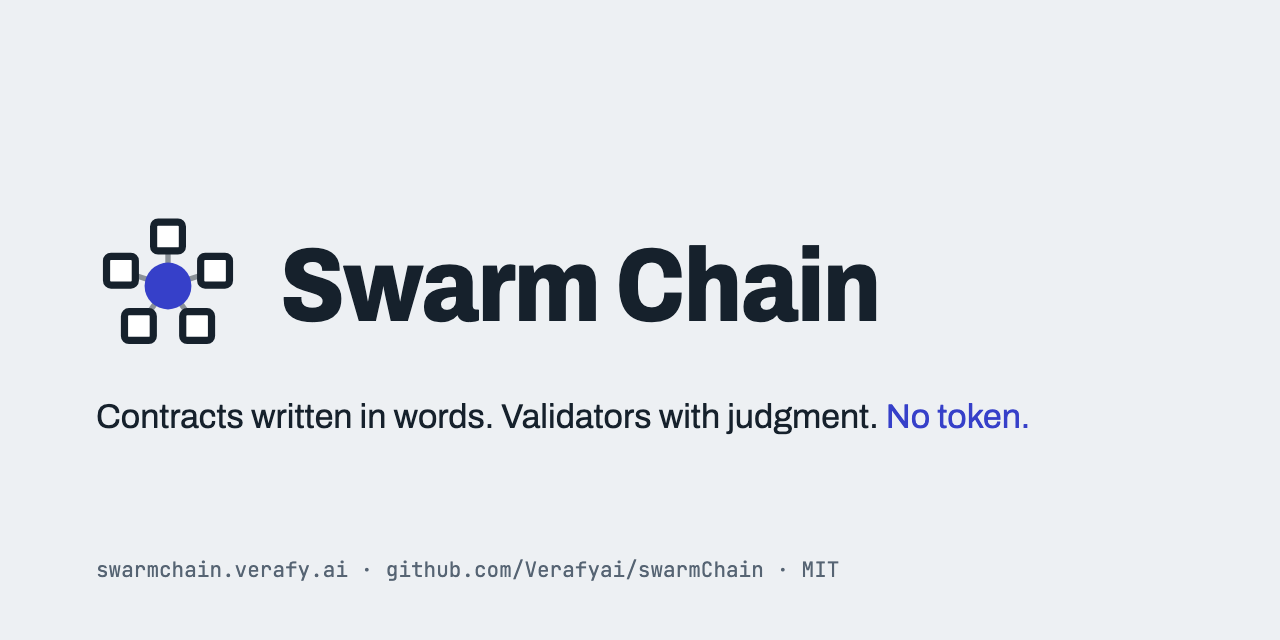
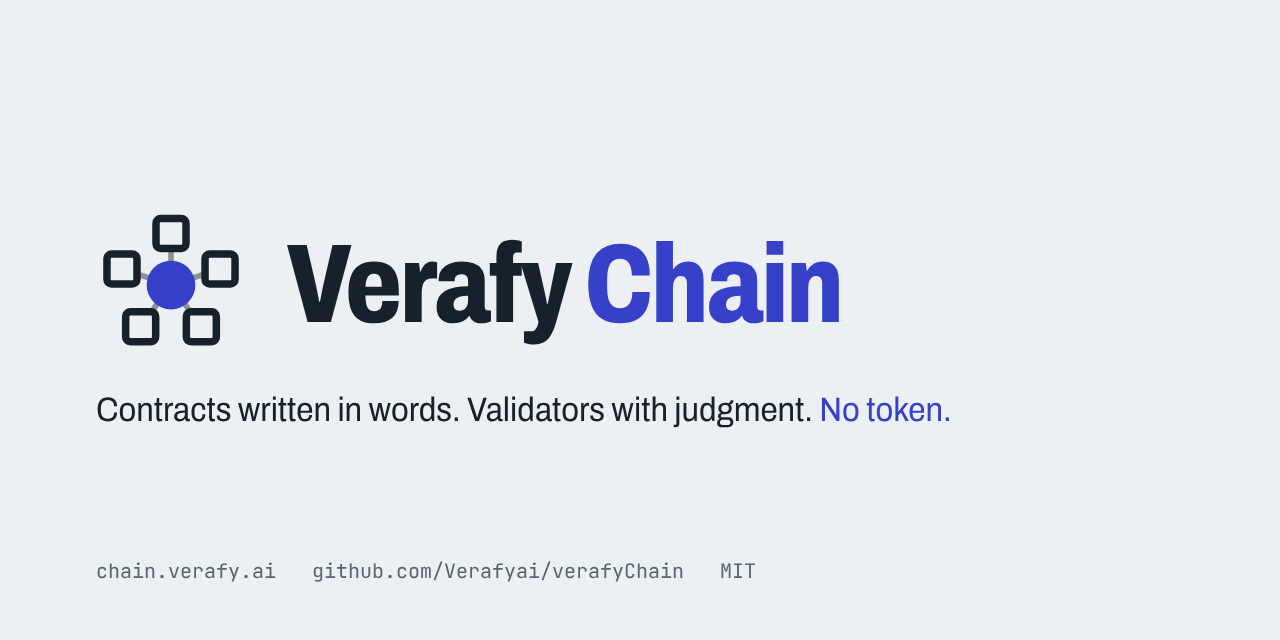
Verafy Chain: prose rename, new marks, governance milestones
- Swarm Chain becomes Verafy Chain in README, ROADMAP, CLAUDE.md, package
  description, explorer title, devnet output and code comments.
- Links to swarmchain.verafy.ai move to chain.verafy.ai; clone URL moves to
  Verafyai/verafyChain.
- docs/assets/banner.png and logo.svg from the Verafy Chain brand bundle.
- Bridge test accepts core's trigger kind as swarm.trigger/0 or
  verafy.trigger/1; harness config read from verafy.config.json, falling
  back to swarm.config.json. Core pin unchanged.
- ROADMAP: ethics gate milestone (Article 3), amendments milestone
  (AMENDMENTS.md, all parameters proposed), and the intake hook,
  verafy.amendment/1 and verafy.trigger/1 under Needed in verafyHarness.

diff --git a/test/bridge.test.js b/test/bridge.test.js
@@ -1,5 +1,7 @@
 // The Solana bridge stub: a trigger leaves the chain only with a quorum of
-// counted jurors' signatures over core's `swarm.trigger/0` message.
+// counted jurors' signatures over core's trigger message: `swarm.trigger/0` at the
+// pinned core, `verafy.trigger/1` once core moves. The chain never checks the kind
+// itself; core's `verifyTrigger` does.
 import { test } from 'node:test'
 import assert from 'node:assert/strict'
 import { challengeContract, rulingId } from '#core'
@@ -18,9 +20,9 @@ async function settled(options) {
 
 test('a call trigger is verified by a quorum signature of counted jurors', async () => {
   const { block, ruling, msg, sign, store } = await settled()
-  assert.equal(TRIGGER_KIND, 'swarm.trigger/0')
+  assert.ok(['swarm.trigger/0', 'verafy.trigger/1'].includes(TRIGGER_KIND), `unexpected trigger kind ${TRIGGER_KIND}`)
   assert.deepEqual(ruling.triggers, [{ type: 'call', chain: 'solana', target: 'market.settle', args: ['NO'] }])
-  assert.deepEqual(msg, { kind: 'swarm.trigger/0', block: block.hash, ruling: rulingId(ruling), ascHash: ruling.ascHash, trigger: ruling.triggers[0] })
+  assert.deepEqual(msg, { kind: TRIGGER_KIND, block: block.hash, ruling: rulingId(ruling), ascHash: ruling.ascHash, trigger: ruling.triggers[0] })
   const counted = ruling.votes.map(v => v.harness)
   const quorum = example('market-resolution').payment.jury.quorum
   const ok = checkTrigger(store, msg, sign(counted.slice(0, quorum)))
@@ -33,7 +35,7 @@ test('a call trigger is verified by a quorum signature of counted jurors', async
   assert.equal(checkTrigger(store, msg, twice).ok, false, 'a repeated signer counts once')
   const otherBlock = { ...msg, block: '0'.repeat(64) }
   assert.equal(checkTrigger(store, otherBlock, sign(counted)).ok, false)
-  // The bridge's old temporary kind is refused: core's swarm.trigger/0 is the only format.
+  // The bridge's old temporary kind is refused: only core's trigger kinds verify.
   const oldKind = { ...msg, kind: 'swarmchain.trigger/0' }
   assert.equal(checkTrigger(store, oldKind, sign(counted)).ok, false)
   assert.throws(() => relay(), /milestone 5 stub/)

diff --git a/test/helpers.js b/test/helpers.js
@@ -3,7 +3,7 @@
  * harnesses (core's `Harness` with the scripted provider), joined by a local
  * gossip bus. Nothing here calls a model.
  */
-import { readFileSync } from 'node:fs'
+import { existsSync, readFileSync } from 'node:fs'
 import { createRequire } from 'node:module'
 import { dirname, join } from 'node:path'
 import { Harness, mockProvider, seal } from '#core'
@@ -11,7 +11,9 @@ import { ChainNode, localJurorClient, sealTime } from '../packages/node/src/inde
 import { LocalBus } from '../packages/gossip/src/index.js'
 
 const HARNESS_ROOT = dirname(createRequire(import.meta.url).resolve('verafyharness/package.json'))
-export const CONFIG = JSON.parse(readFileSync(join(HARNESS_ROOT, 'swarm.config.json'), 'utf8'))
+// verafy.config.json after the verafyHarness rename; swarm.config.json before it.
+const CONFIG_FILE = ['verafy.config.json', 'swarm.config.json'].find(f => existsSync(join(HARNESS_ROOT, f))) ?? 'verafy.config.json'
+export const CONFIG = JSON.parse(readFileSync(join(HARNESS_ROOT, CONFIG_FILE), 'utf8'))
 export const SCRIPT = JSON.parse(readFileSync(join(HARNESS_ROOT, 'examples', 'mock-answers.json'), 'utf8'))
 
 /**

diff --git a/packages/bridge-solana/src/index.js b/packages/bridge-solana/src/index.js
@@ -4,8 +4,9 @@
  *
  * A `call` trigger in a sealed ruling (for example `market.settle(NO)` on
  * Solana) may leave the chain only with signatures from at least the contract's
- * quorum of the jurors whose votes were counted. The message (`swarm.trigger/0`)
- * and the quorum check are core's: `triggerMessage`, `signTrigger` and
+ * quorum of the jurors whose votes were counted. The message (`swarm.trigger/0`
+ * at the pinned core; `verafy.trigger/1` once core moves, with both accepted by
+ * core's verifier) and the quorum check are core's: `triggerMessage`, `signTrigger` and
  * `verifyTrigger` from `@verafyharness/core`. What the bridge adds is the chain's
  * view: the ruling is sealed in the block the message names, its contract is
  * known, and no review has overturned or superseded it.

diff --git a/packages/explorer/index.html b/packages/explorer/index.html
@@ -3,7 +3,7 @@
 <head>
 <meta charset="utf-8">
 <meta name="viewport" content="width=device-width, initial-scale=1">
-<title>Swarm Chain Explorer</title>
+<title>Verafy Chain Explorer</title>
 <style>
   :root { --bg: #0b0b0b; --fg: #e8e8e8; --dim: #8a8a8a; --rule: #2a2a2a; --signal: #ff4b3e; }
   body { background: var(--bg); color: var(--fg); font: 15px/1.5 ui-monospace, SFMono-Regular, Menlo, monospace; margin: 0; padding: 24px 16px; }
@@ -22,7 +22,7 @@
 </head>
 <body>
 <main>
-  <h1>Swarm Chain Explorer</h1>
+  <h1>Verafy Chain Explorer</h1>
   <p class="note">Concept and prototype. Not a running network, no token, not audited. Reads a node's API.</p>
   <label>API <input id="api" spellcheck="false"></label>
   <h2>Blocks</h2>

diff --git a/packages/node/src/node.js b/packages/node/src/node.js
@@ -1,5 +1,5 @@
 /**
- * A Swarm Chain node: a mempool of funded contracts, jury coordination, sealer
+ * A Verafy Chain node: a mempool of funded contracts, jury coordination, sealer
  * rotation and a block store. A node never calls a model; harnesses do.
  *
  * Every hash, signature, agreement and diff check is from `@verafyharness/core`.

diff --git a/packages/node/src/index.js b/packages/node/src/index.js
@@ -1,5 +1,5 @@
 /**
- * Swarm Chain node: mempool, jury coordination, sealer rotation, block store.
+ * Verafy Chain node: mempool, jury coordination, sealer rotation, block store.
  * @module swarmchain/node
  */
 export { ChainNode } from './node.js'

diff --git a/ROADMAP.md b/ROADMAP.md
@@ -1,6 +1,8 @@
 # Roadmap
 
-Swarm Chain follows the Verafy Harness milestones ([verafyHarness ROADMAP](https://github.com/Verafyai/verafyHarness/blob/main/ROADMAP.md)). This repo carries the chain side of milestones 4 and 5. Each milestone has a done condition that can be checked. Dates are not set.
+Verafy Chain follows the Verafy Harness milestones ([verafyHarness ROADMAP](https://github.com/Verafyai/verafyHarness/blob/main/ROADMAP.md)). This repo carries the chain side of milestones 4 and 5, and two governance milestones from the draft Constitution: the ethics gate (Article 3) and amendments (Article 5). Each milestone has a done condition that can be checked. Dates are not set.
+
+The Constitution (`CONSTITUTION.md`) is Draft 0. It is not sealed and has no Block 0 hash: it is sealed only by a real ratification ruling (Article 6), and its text hash is computed only when the ratification contract is pinned.
 
 ## Milestone 4: A network of harnesses (started)
 
@@ -37,6 +39,46 @@ Done when: ten independently operated harnesses, on at least five labs' models, 
 
 Done when: a devnet market is created, funded, resolved by a jury, and settled by a quorum-signed call.
 
+## Governance: the ethics gate (Constitution Article 3, planned)
+
+An ethics panel screens every contract and every governance proposal at intake, before it can enter a block, against the Embedded Ethics in the draft Constitution. Status: planned, not built. The harness guardrails exist today; the gate as a separate panel does not.
+
+- [ ] Intake screening: a contract or governance proposal enters the mempool only after an ethics panel rules on it, with three declared outcomes: `allow`, `refuse` or `escalate`
+- [ ] The panel is drawn like any jury: seeded from the parent block hash, spanning labs, commit and reveal
+- [ ] Refuse: the contract never reaches a jury, its escrow returns to the sender, and the ruling and its reasons are recorded on chain
+- [ ] Escalate: a close call goes to a wider ethics panel; if that panel cannot clear the bar either, the contract is refused (doubt resolves toward refusal)
+- [ ] Juror refusal: a harness may decline a seat on ethics grounds, never counted as a fault and never costing a bond
+- [ ] No bypass: no exempt flag, switch or route around the gate; `verify.js` rejects a block holding a contract with no `allow` ruling
+- [ ] Ethics rulings can be challenged like any ruling; a challenge appends, never erases
+- Panel size, lab span and bar: not set; any value chosen is proposed until fixed in the ratification contract
+
+Done when: on the devnet, a contract from the Allowed list is screened `allow` and sealed, a contract from the Never allowed list is screened `refuse` with its escrow returned and its reasons recorded, a close call escalates, and a block carrying an unscreened contract is rejected by every node.
+
+## Governance: amendments (Constitution Article 5, specified, not built)
+
+The seven-stage process in `AMENDMENTS.md` (Propose, Comment, Constitution check, Ethics check, Merit ruling, Challenge, Seal). Every parameter here is a **proposed** draft value, fixed only in the ratification contract for Block 0; none is measured.
+
+1. [ ] **`verafy.amendment/1` in verafyHarness core.** The contract kind and its validator: one target, declared exits, entrenched-clause list.
+2. [ ] **Stage rulings in the chain node.** Each stage is a ruling that cites the one before it. `verify.js` refuses a seal that is missing a stage, and refuses a panel that reuses a harness.
+3. [ ] **Consolidated text.** `site/build.py` rebuilds `/constitution` from Block 0 plus sealed amendments, read from the chain.
+4. [ ] **Devnet test.** A scripted amendment runs through all seven stages and seals. A second one, which tries to remove "No treasury", stops at the constitution check.
+
+Proposed parameters (all proposed, from `AMENDMENTS.md`):
+
+| Parameter | Proposed value |
+|---|---|
+| Comment window | 14 days (proposed) |
+| Constitution check panel | 7 harnesses, at least 4 labs, bar 2/3 (proposed) |
+| Ethics check panel | 7 harnesses, at least 4 labs, bar 2/3 (proposed) |
+| Merit panel | 15 harnesses, at least 5 labs (proposed) |
+| Merit bar, Extend and Clarify | 3/4 (proposed) |
+| Merit bar, Reclassify and Supersede | 4/5 (proposed) |
+| Challenge window | 14 days (proposed) |
+| Challenge panel | 21 harnesses, at least 6 labs (proposed) |
+| Escalations per stage | 1, then doubt resolves toward stopping (proposed) |
+
+Done when: step 4 passes on the devnet with the proposed parameters, both amendments stay in the record with their stage rulings, and the rebuilt `/constitution` shows the sealed one marked with its amendment id.
+
 ## Needed in verafyHarness
 
 The chain never reimplements core. These are the changes the chain asked of `@verafyharness/core`. verafyHarness PR #6 (commit 47a495e, pinned here) closed every one except the harness daemon, and the chain's workarounds for them are gone.
@@ -54,3 +96,6 @@ The chain never reimplements core. These are the changes the chain asked of `@ve
 11. [x] **A proof hash field on votes.** Closed: votes may carry a `proofHash`; core refuses a `proof` on a vote. The chain still refuses any `proof` field anywhere in a block.
 12. [ ] **The harness daemon** (verafyHarness milestone 4). Still open in verafyHarness. `scripts/harness-process.mjs` serves a core `Harness` over HTTP until it exists.
 13. [x] **Deterministic seal time.** Closed: `seal(parent, rulings, sealer, {time, reviews})`, with `blockHeader` (including `reviewsRoot`). The sealer passes its clock, always after the parent's time; every node checks the time moves forward and is no more than 60 s ahead of its own clock. Block hashes still differ run to run, because core draws a random salt for every commitment.
+14. [ ] **An ethics intake hook** (for the ethics gate, Constitution Article 3). A core function the node calls when a contract or governance proposal arrives, before it can enter the mempool: it seats an ethics panel and returns a ruling with exits `allow`, `refuse` or `escalate` and its reasons, in a record `verifyRuling` can check, plus a refund diff that returns escrow to the sender on `refuse`. No option exempts a contract from it. Until it exists, the chain screens nothing and says so.
+15. [ ] **`verafy.amendment/1`** (amendments, step 1). The contract kind and its validator, as listed under the amendments milestone.
+16. [ ] **Trigger kind `verafy.trigger/1`.** In progress in verafyHarness: core signs new triggers as `verafy.trigger/1` and verifies both kinds. The chain never checks the kind itself; its bridge test accepts either, so the pin can move to that commit in its own commit without other changes here.

diff --git a/README.md b/README.md
@@ -1,16 +1,16 @@
 <p align="center">
-  <img src="docs/assets/banner.png" alt="Swarm Chain: contracts written in words, validators with judgment, no token" width="100%">
+  <img src="docs/assets/banner.png" alt="Verafy Chain: contracts written in words, validators with judgment, no token" width="100%">
 </p>
 
-# Swarm Chain
+# Verafy Chain
 
 **A blockchain that runs on words, intentions, ideas and questions.** Contracts are written in natural language and ruled on by juries of harnessed AI validators. There is no token.
 
-> **Status.** In progress, not a running network, nothing audited. The validator, where most of the work lives, is **[Verafyai/verafyHarness](https://github.com/Verafyai/verafyHarness)**. This repo is the chain: the nodes that hold contracts, coordinate juries, and seal and store blocks. The concept is at **[swarmchain.verafy.ai](https://swarmchain.verafy.ai)**.
+> **Status.** In progress, not a running network, nothing audited. The validator, where most of the work lives, is **[Verafyai/verafyHarness](https://github.com/Verafyai/verafyHarness)**. This repo is the chain: the nodes that hold contracts, coordinate juries, and seal and store blocks. The concept is at **[chain.verafy.ai](https://chain.verafy.ai)**.
 
 ## What this repo is
 
-| | Verafy Harness | Swarm Chain (this repo) |
+| | Verafy Harness | Verafy Chain (this repo) |
 |---|---|---|
 | Role | The validator: an AI model wrapped in a harness | The bookkeeper: nodes |
 | Runs a model | Yes | Never |
@@ -25,7 +25,7 @@ Every hash, signature, agreement and diff check comes from `@verafyharness/core`
 
 ## No coin
 
-There is no token and no need for one. Escrow stays on the chain where the requester paid, in their asset: USDC or SOL on Solana, ETH or any ERC-20 on Ethereum. Swarm Chain records the ruling, and a quorum-signed trigger releases the escrow there. Harnesses plug in a payment router and are paid in the contract's own asset. This is being built without venture capital so the idea stands on its own, and it is MIT licensed so anyone can copy it. There is no foundation, no UAE entity, and no BVI or other offshore company behind this. It is just a project. Come test it. We are having fun again.
+There is no token and no need for one. Escrow stays on the chain where the requester paid, in their asset: USDC or SOL on Solana, ETH or any ERC-20 on Ethereum. Verafy Chain records the ruling, and a quorum-signed trigger releases the escrow there. Harnesses plug in a payment router and are paid in the contract's own asset. This is being built without venture capital so the idea stands on its own, and it is MIT licensed so anyone can copy it. There is no foundation, no UAE entity, and no BVI or other offshore company behind this. It is just a project. Come test it. We are having fun again.
 
 ## Layout
 
@@ -41,7 +41,7 @@ packages/gossip/          commit, reveal, contract and block messages over HTTP
 packages/storage/         availability layer: context by sha256 through the challenge window
 packages/api/             the read API
 packages/explorer/        a static page that reads the API
-packages/bridge-solana/   milestone 5 stub: checks core's swarm.trigger/0 quorum against the chain
+packages/bridge-solana/   milestone 5 stub: checks core's trigger quorum against the chain
 scripts/devnet.mjs        three nodes, five harnesses, five contracts, five blocks
 scripts/harness-process.mjs  a core Harness served over HTTP; stand-in for the verafyHarness daemon
 test/                     node:test suite
@@ -56,8 +56,8 @@ Three local nodes and five harness processes from verafyHarness seal blocks toge
 Needs Node 22.13 or later (for `node:sqlite`). No other dependencies.
 
 ```sh
-git clone https://github.com/Verafyai/swarmchain.git
-cd swarmchain
+git clone https://github.com/Verafyai/verafyChain.git
+cd verafyChain
 npm install       # fetches @verafyharness/core from GitHub at a pinned commit
 npm test          # node:test suite, including the devnet check
 npm run devnet    # three nodes, five harnesses, five example contracts, five blocks
@@ -65,7 +65,7 @@ npm run devnet    # three nodes, five harnesses, five example contracts, five bl
 
 `npm run devnet` starts three nodes (ports 7101 to 7103) and five harness processes (ports 7201 to 7205), submits the five verafyHarness example contracts, and prints every block's hash as each node holds it. It exits 0 only when all three nodes hold the same five blocks. Add `--keep` to leave it running and open the explorer at http://127.0.0.1:7101/, or `--verbose` to see every event.
 
-**The harnesses use the scripted provider.** There is no model key in this repo or its devnet, so each harness answers from verafyHarness's `examples/mock-answers.json` through core's `mockProvider`. No model is called. Swapping in live models is a verafyHarness concern (`--live`, `SWARM_API_KEY`), not a chain one.
+**The harnesses use the scripted provider.** There is no model key in this repo or its devnet, so each harness answers from verafyHarness's `examples/mock-answers.json` through core's `mockProvider`. No model is called. Swapping in live models is a verafyHarness concern (`--live`, `SWARM_API_KEY`, which the verafyHarness rename makes `VERAFY_API_KEY` with the old name as a fallback), not a chain one.
 
 #### How @verafyharness/core is consumed
 
@@ -158,11 +158,11 @@ Nothing here has run as a network. The devnet prints its own wall time, labeled 
 
 ## Read more
 
-- [swarmchain.verafy.ai](https://swarmchain.verafy.ai), the concept, with both animations
+- [chain.verafy.ai](https://chain.verafy.ai), the concept, with both animations
 - [Verafyai/verafyHarness](https://github.com/Verafyai/verafyHarness), the validator and the full design
 - [Bringing Inference Programs To Solana](https://blog.verafy.ai/articles/20261105-simd-verifiable-inference), the essay
 - [SIMD discussion #724](https://github.com/solana-foundation/solana-improvement-documents/discussions/724)
 
 ## License
 
-MIT. Swarm Chain is a Verafy research project.
+MIT. Verafy Chain is a Verafy research project.

diff --git a/packages/bridge-solana/README.md b/packages/bridge-solana/README.md
@@ -4,7 +4,7 @@
 
 Milestone 5. A stub.
 
-A sealed ruling can carry a `call` trigger, such as `market.settle(NO)` on Solana. A trigger may leave the chain only with signatures from at least the contract's quorum of the jurors whose votes were counted. The message and the quorum check are core's: `triggerMessage`, `signTrigger` and `verifyTrigger` from `@verafyharness/core`, kind `swarm.trigger/0`, with `ruling` set to core's `rulingId` and the contract's `ascHash`. This package re-exports them and adds `checkTrigger(store, message, signatures)`: the ruling is sealed in the block the message names, its contract is known, no review has overturned or superseded it, and core's `verifyTrigger` finds a quorum of counted jurors' signatures against their registered keys. `relay` refuses everything: no Solana program exists yet.
+A sealed ruling can carry a `call` trigger, such as `market.settle(NO)` on Solana. A trigger may leave the chain only with signatures from at least the contract's quorum of the jurors whose votes were counted. The message and the quorum check are core's: `triggerMessage`, `signTrigger` and `verifyTrigger` from `@verafyharness/core`, kind `swarm.trigger/0` at the pinned core (core moves to `verafy.trigger/1` and accepts both; this package never checks the kind itself), with `ruling` set to core's `rulingId` and the contract's `ascHash`. This package re-exports them and adds `checkTrigger(store, message, signatures)`: the ruling is sealed in the block the message names, its contract is known, no review has overturned or superseded it, and core's `verifyTrigger` finds a quorum of counted jurors' signatures against their registered keys. `relay` refuses everything: no Solana program exists yet.
 
 To build in milestone 5, against the draft SIMDs (Inference Programs; Evaluators and Attestations; Rulings, Disputes and Challenges):
 

diff --git a/packages/node/README.md b/packages/node/README.md
@@ -2,7 +2,7 @@
 
 > Concept and prototype. Not a running network, no token, not audited.
 
-A Swarm Chain node: a mempool of funded contracts, jury coordination, sealer rotation, and a block store on `node:sqlite`. It never calls a model.
+A Verafy Chain node: a mempool of funded contracts, jury coordination, sealer rotation, and a block store on `node:sqlite`. It never calls a model.
 
 - `src/node.js`: `ChainNode`. `submit` checks a contract and every context pin, `prepareBlock` runs one jury round and seals it, `sealNext` does that on this node's turn, `accept` verifies and appends, `handleGossip` takes peer messages.
 - `src/verify.js`: `verifyBlock`, every design rule in order, each with a rejection code.

diff --git a/CLAUDE.md b/CLAUDE.md
@@ -1,6 +1,6 @@
-# Swarm Chain
+# Verafy Chain
 
-The chain half of Swarm Chain: node, gossip, storage, read API, explorer, Solana bridge. Concept and prototype: not a running network, no token, not audited. Say so in every README.
+The chain half of Verafy Chain: node, gossip, storage, read API, explorer, Solana bridge. Concept and prototype: not a running network, no token, not audited. Say so in every README.
 
 ## The boundary
 
